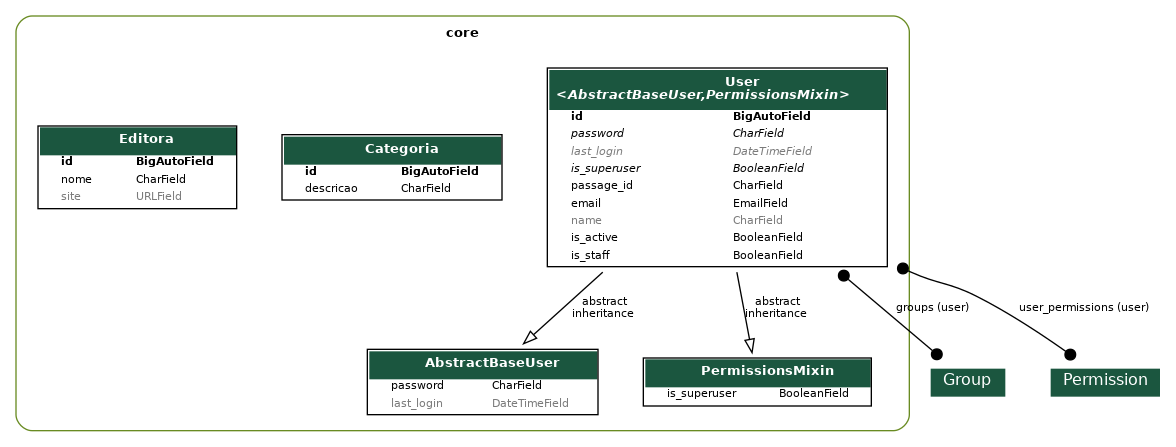
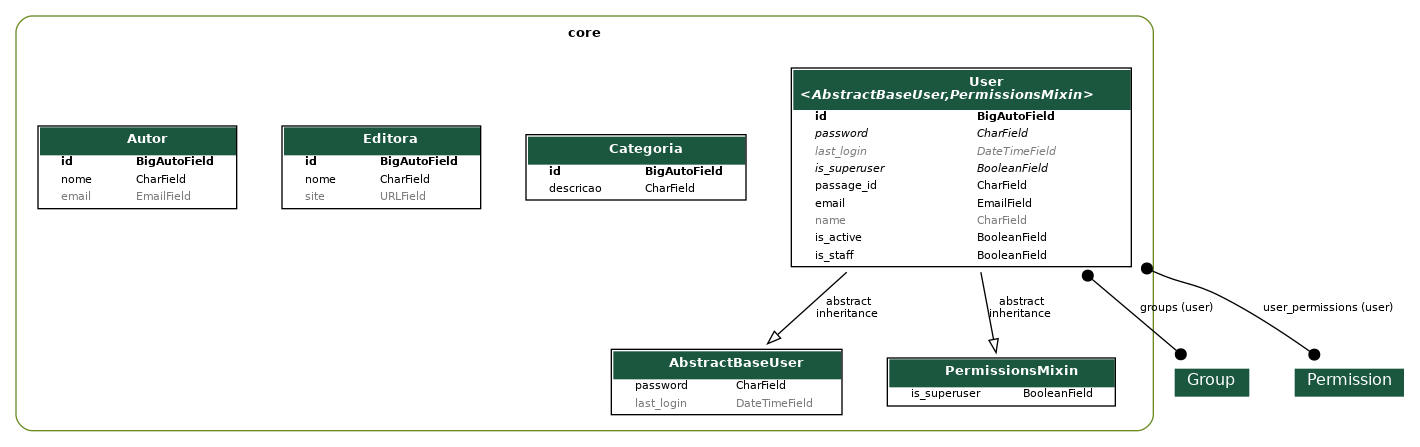
Feat: Criação API Autor

diff --git a/core/migrations/0006_autor.py b/core/migrations/0006_autor.py
@@ -1,0 +1,21 @@
+# Generated by Django 5.1.7 on 2025-05-26 19:16
+
+from django.db import migrations, models
+
+
+class Migration(migrations.Migration):
+
+    dependencies = [
+        ('core', '0005_categoria_editora'),
+    ]
+
+    operations = [
+        migrations.CreateModel(
+            name='Autor',
+            fields=[
+                ('id', models.BigAutoField(auto_created=True, primary_key=True, serialize=False, verbose_name='ID')),
+                ('nome', models.CharField(max_length=100)),
+                ('email', models.EmailField(blank=True, max_length=255, null=True, unique=True)),
+            ],
+        ),
+    ]

diff --git a/app/urls.py b/app/urls.py
@@ -7,11 +7,12 @@ from drf_spectacular.views import (
 )
 from rest_framework.routers import DefaultRouter
 
-from core.views import EditoraViewSet, CategoriaViewSet, UserViewSet
+from core.views import AutorViewSet, EditoraViewSet, CategoriaViewSet, UserViewSet
 
 router = DefaultRouter()
 router.register(r"categorias", CategoriaViewSet)
 router.register(r"editoras", EditoraViewSet)
+router.register(r"autores", AutorViewSet)
 
 router.register(r'usuarios', UserViewSet, basename='usuarios')
 

diff --git a/core/models/autor.py b/core/models/autor.py
@@ -1,0 +1,8 @@
+from django.db import models
+
+class Autor(models.Model):
+    nome = models.CharField(max_length=100)
+    email = models.EmailField(max_length=255, unique=True, blank=True, null=True)
+
+    def __str__(self):
+        return self.descricao

diff --git a/core/views/autor.py b/core/views/autor.py
@@ -1,0 +1,8 @@
+from rest_framework.viewsets import ModelViewSet
+
+from core.models import Autor
+from core.serializers import AutorSerializer
+
+class AutorViewSet(ModelViewSet):
+    queryset = Autor.objects.all()
+    serializer_class = AutorSerializer

diff --git a/core/serializers/autor.py b/core/serializers/autor.py
@@ -1,0 +1,8 @@
+from rest_framework.serializers import ModelSerializer
+
+from core.models import Autor
+
+class AutorSerializer(ModelSerializer):
+    class Meta:
+        model = Autor
+        fields = "__all__"

diff --git a/core/serializers/__init__.py b/core/serializers/__init__.py
@@ -1,3 +1,4 @@
 from .user import UserSerializer
 from .categoria import CategoriaSerializer
 from .editora import EditoraSerializer
+from .autor import AutorSerializer

diff --git a/core/views/__init__.py b/core/views/__init__.py
@@ -1,3 +1,4 @@
 from .user import UserViewSet
 from .categoria import CategoriaViewSet
 from .editora import EditoraViewSet
+from .autor import AutorViewSet

diff --git a/core/models/__init__.py b/core/models/__init__.py
@@ -1,3 +1,4 @@
 from .user import User
 from .categoria import Categoria
 from .editora import Editora
+from .autor import Autor
